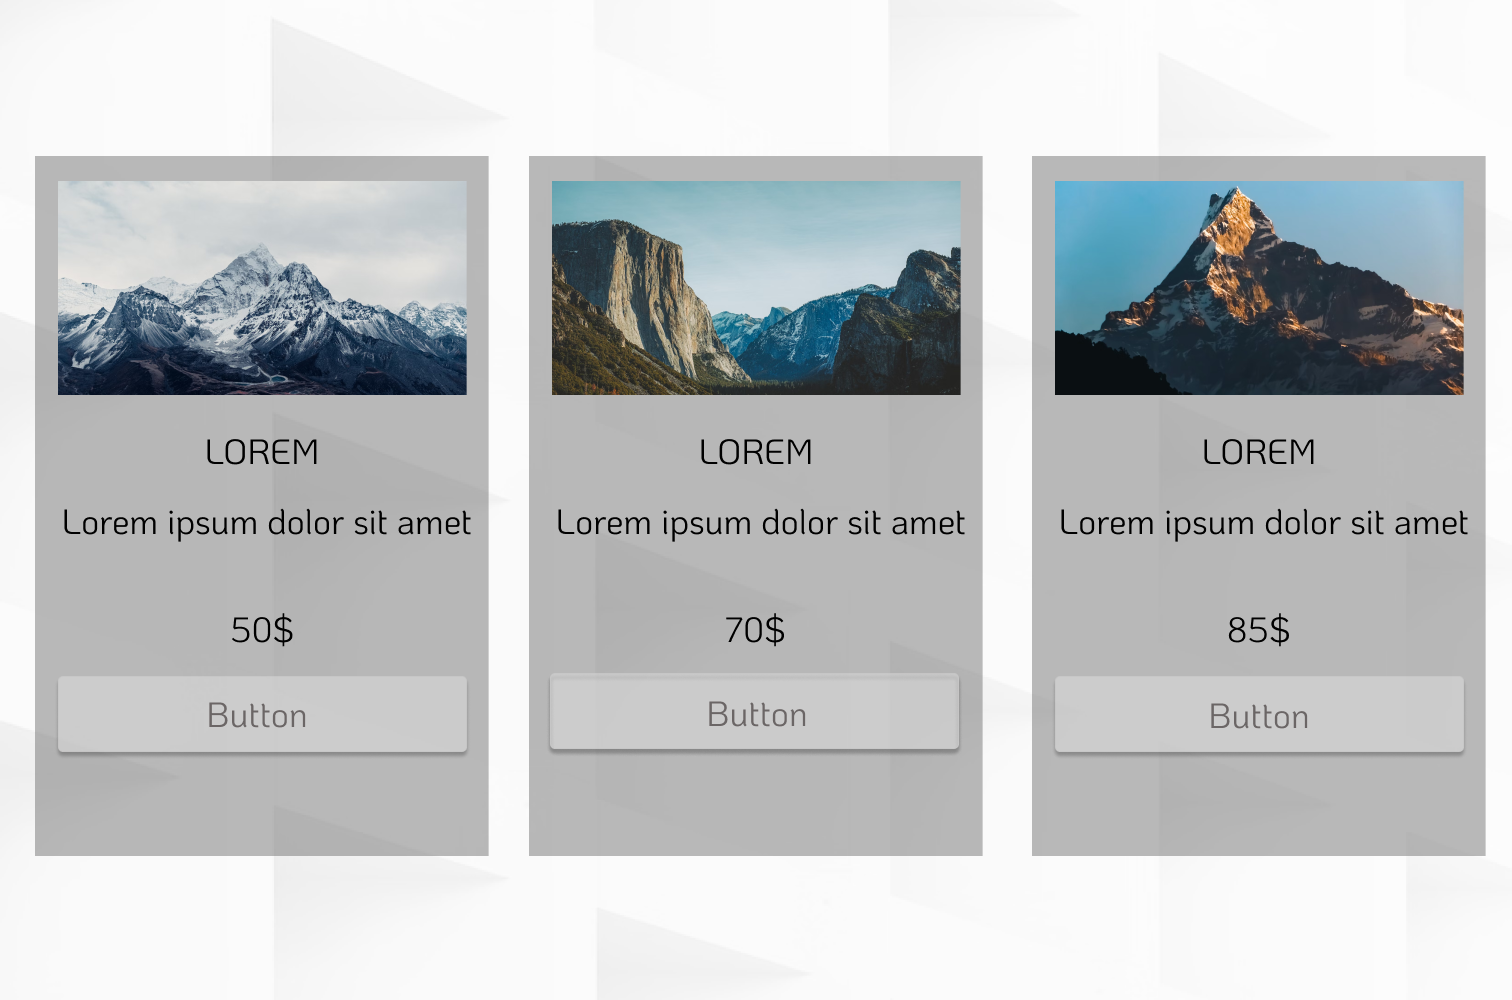
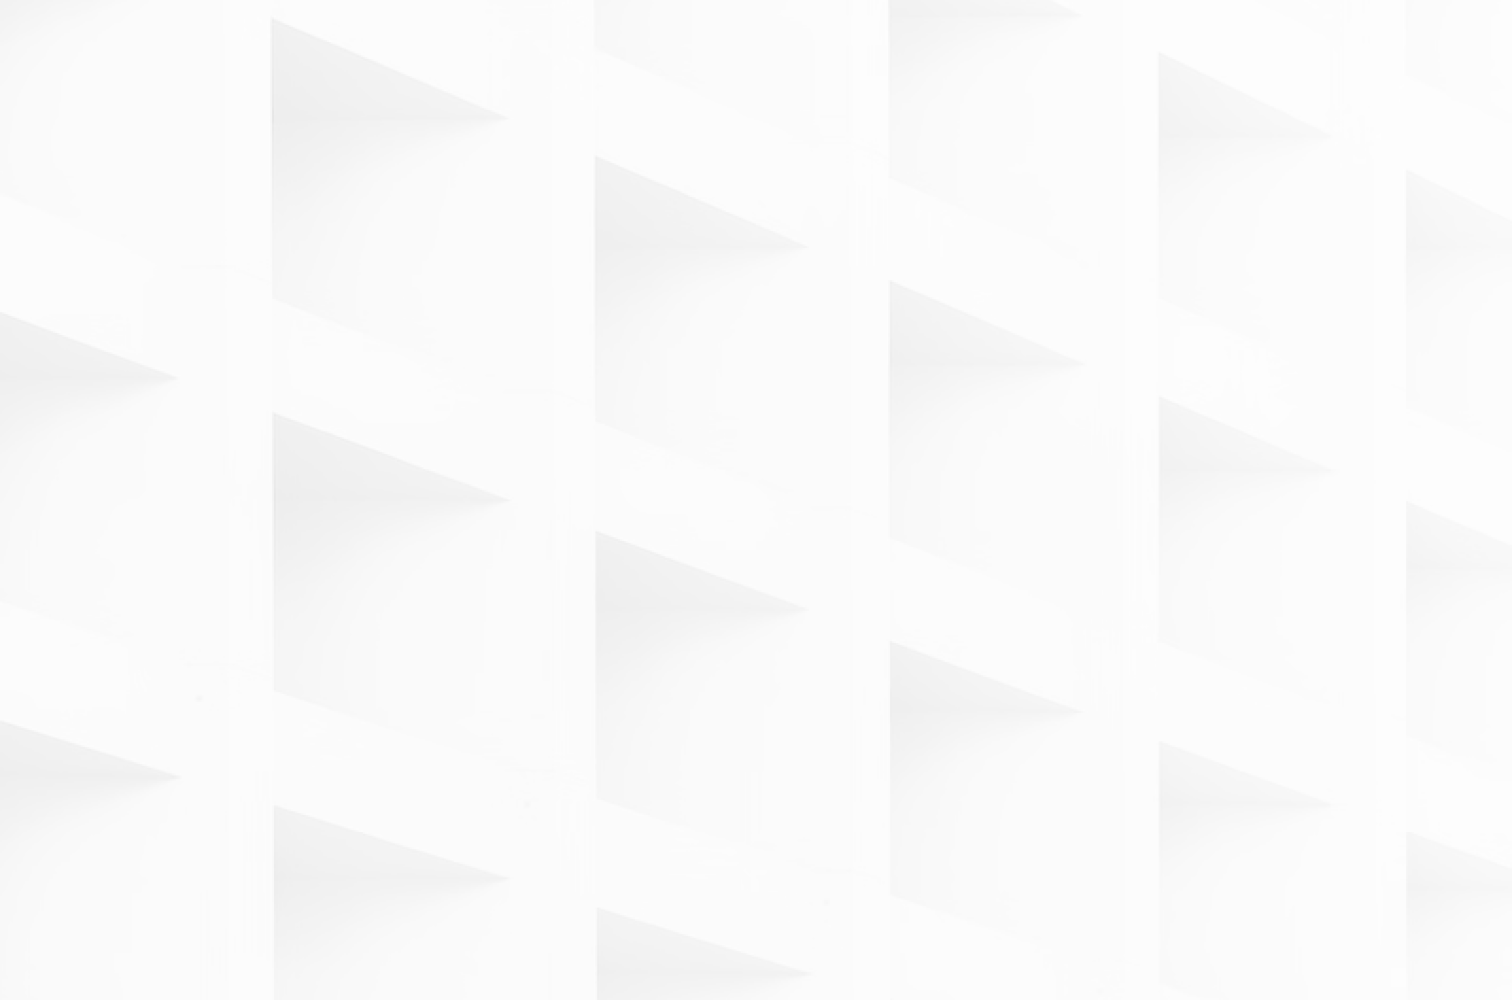
finished lesson4.1

diff --git a/less_04/less4.1.css b/less_04/less4.1.css
@@ -55,7 +55,7 @@ h1{
 .center{
     width: 100%;
     height: 1018px;
-    /*background: url("less_04_file/Rectangle4.png") lightgray 50% / cover no-repeat;*/
+    background: url("less_04_file/Rectangle4.png") lightgray 50% / cover no-repeat;
     display: flex;
     justify-content: center;
     align-items: center;
@@ -64,7 +64,7 @@ h1{
 .bottom{
     width: 100%;
     height: 1029px;
-    /*background: url("less_04_file/Rectangle16.png") lightgray 50% / cover no-repeat;*/
+    background: url("less_04_file/Rectangle16.png") lightgray 50% / cover no-repeat;
     display: flex;
     justify-content: space-around;
     align-items: center;
